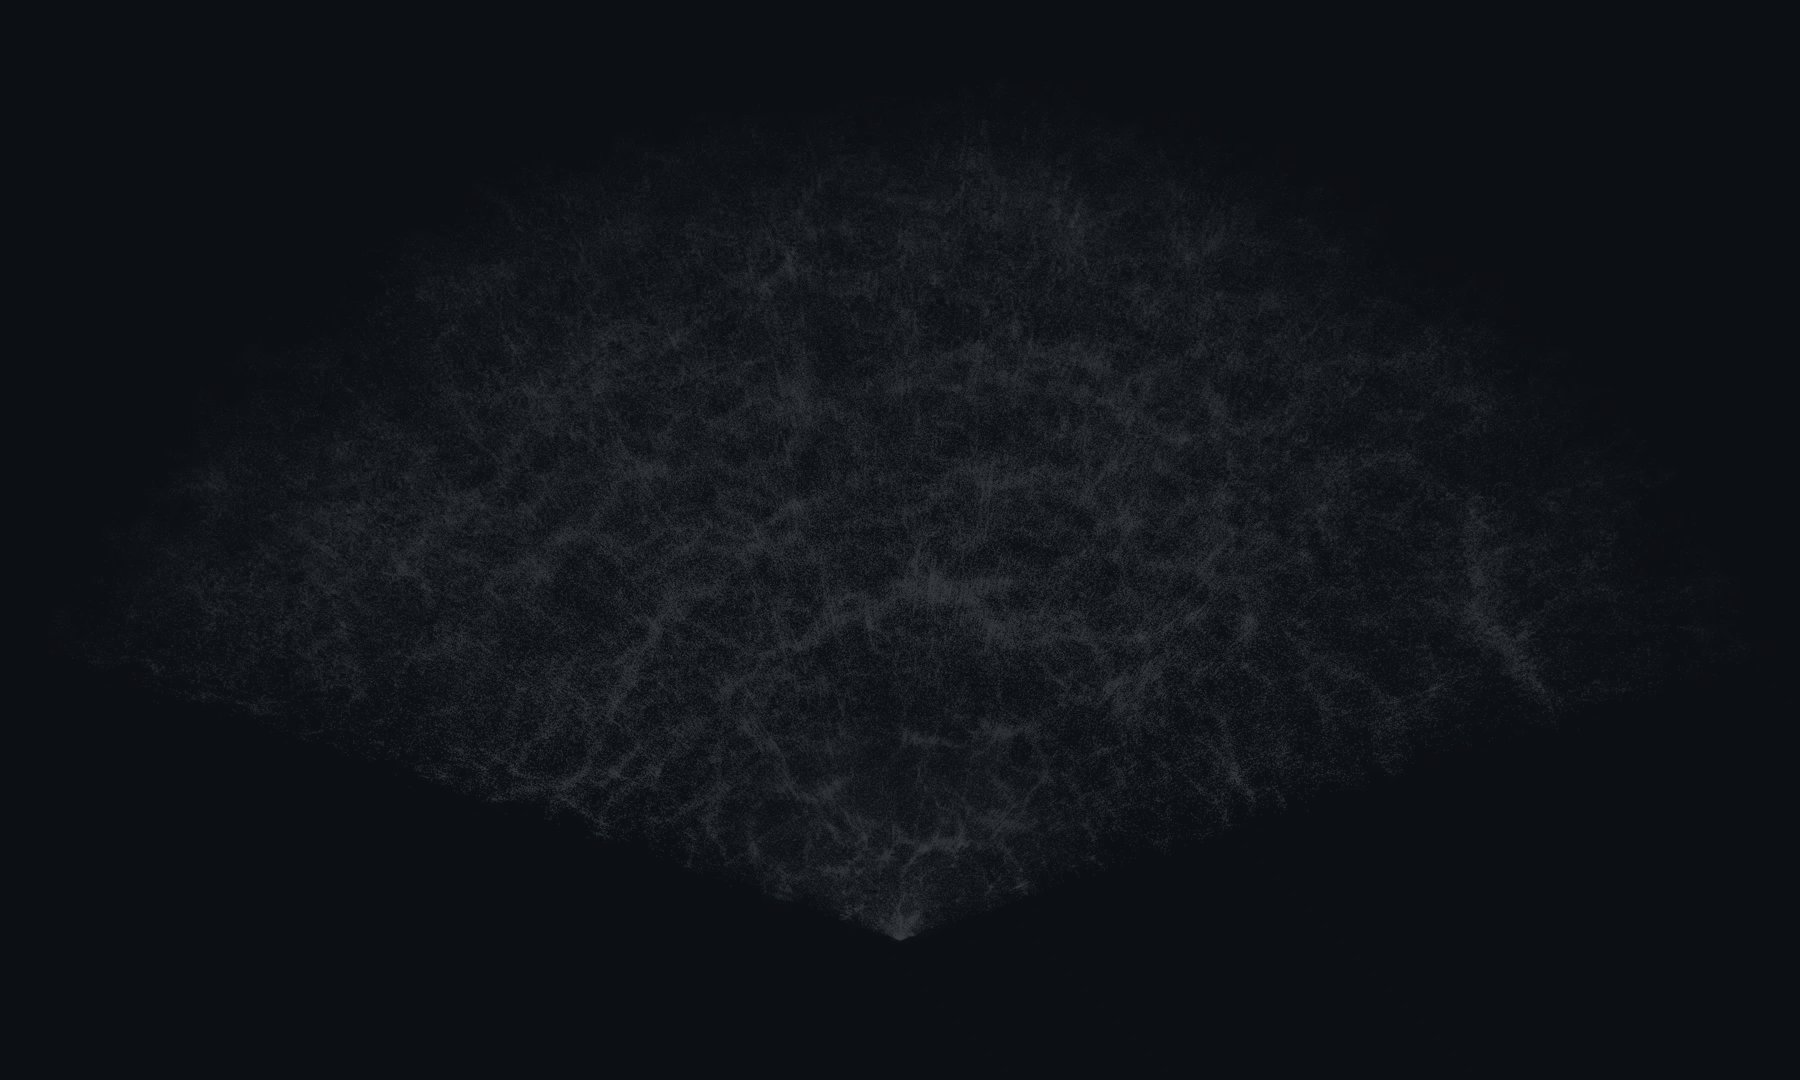
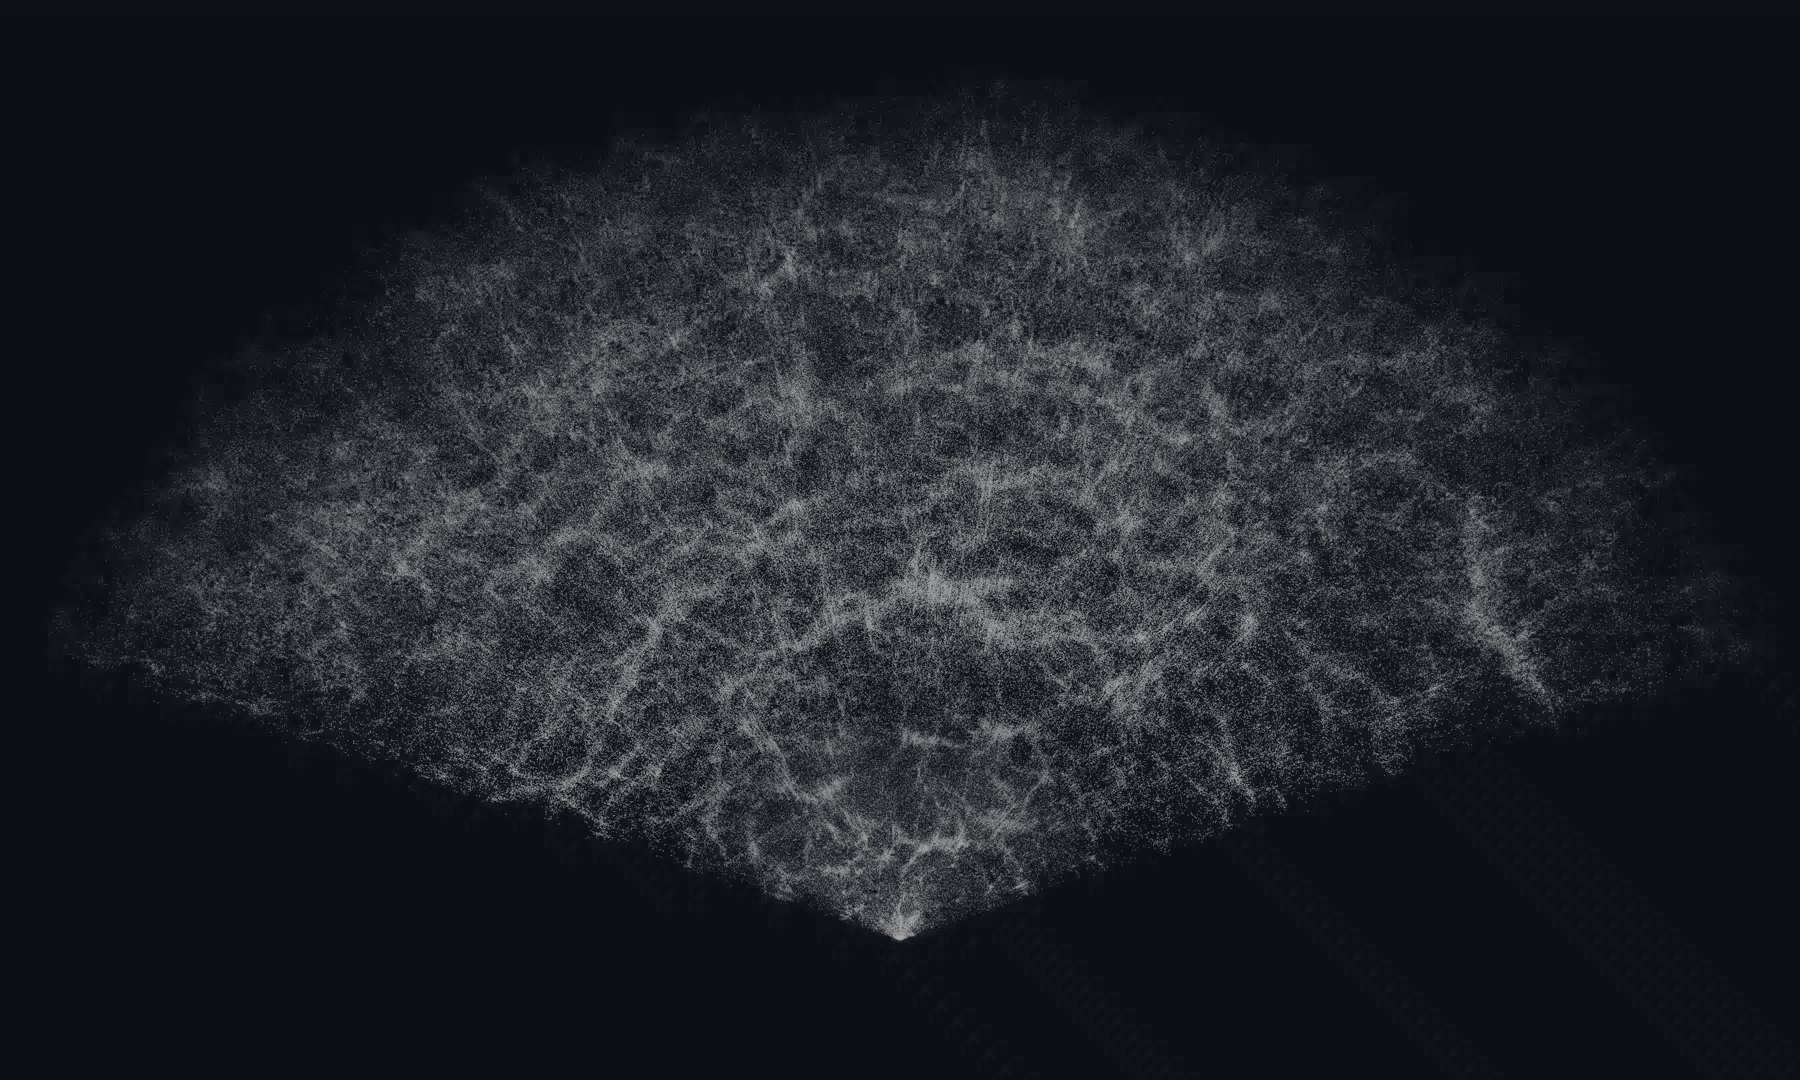
Brighter, more opaque white survey dots; keep landing text readable
- Background dots ~3x brighter, with a lighter overlay on the landing page
- Soft dark glow and text shadow behind the landing-page text

Claude-Session: https://claude.ai/code/session_01SiHqF3nmdqJf51uy6f9hsB

Changed region(s): [[0.0622, 0.1222, 0.9022, 0.8861]]

diff --git a/assets/css/site.css b/assets/css/site.css
@@ -25,9 +25,17 @@ img { max-width: 100%; height: auto; }
 /* Fixed background image; dimmer on inner pages */
 .backdrop {
   position: fixed; inset: 0; z-index: -1;
-  background: linear-gradient(rgba(12, 15, 20, .15), rgba(12, 15, 20, .45)), var(--bg-image) center / cover no-repeat;
+  background: linear-gradient(rgba(12, 15, 20, .05), rgba(12, 15, 20, .25)), var(--bg-image) center / cover no-repeat;
 }
 body.inner .backdrop { filter: brightness(.55) blur(2px); transform: scale(1.02); }
+/* Landing page: soft dark glow behind the central text, dots stay bright elsewhere */
+body.home .backdrop::after {
+  content: ""; position: absolute; inset: 0;
+  background: radial-gradient(ellipse 38% 30% at 50% 47%, rgba(10, 12, 16, .78), rgba(10, 12, 16, .45) 55%, transparent 100%);
+}
+@media (max-width: 700px) {
+  body.home .backdrop::after { background: radial-gradient(ellipse 75% 32% at 50% 42%, rgba(10, 12, 16, .8), rgba(10, 12, 16, .45) 60%, transparent 100%); }
+}
 
 /* Outlined button row (landing) and tabs (inner pages) */
 .button-row { display: inline-flex; flex-wrap: wrap; justify-content: center; border: 1px solid var(--line); border-radius: 6px; overflow: hidden; }
@@ -62,7 +70,10 @@ body.inner .backdrop { filter: brightness(.55) blur(2px); transform: scale(1.02)
   -webkit-background-clip: text; background-clip: text; color: transparent;
 }
 .hero-sub { display: flex; flex-direction: column; gap: .25em; margin-bottom: 2.6em; }
-.hero-sub span { color: var(--muted); font-size: .78rem; letter-spacing: .22em; text-transform: uppercase; }
+/* Keep landing text readable over the bright survey dots */
+.hero-name, .hero-sub span { text-shadow: 0 0 2px rgba(8, 10, 14, .95), 0 1px 14px rgba(8, 10, 14, .95), 0 0 30px rgba(8, 10, 14, .8); }
+.hero-tagline { filter: drop-shadow(0 0 2px rgba(8, 10, 14, .95)) drop-shadow(0 1px 10px rgba(8, 10, 14, .9)); }
+.hero-sub span { color: rgba(255, 255, 255, .78); font-size: .78rem; letter-spacing: .22em; text-transform: uppercase; }
 .hero-sub .hero-location { margin-top: .9em; color: var(--text); }
 .hero .button-row { background: rgba(12, 15, 20, .35); backdrop-filter: blur(4px); }
 
